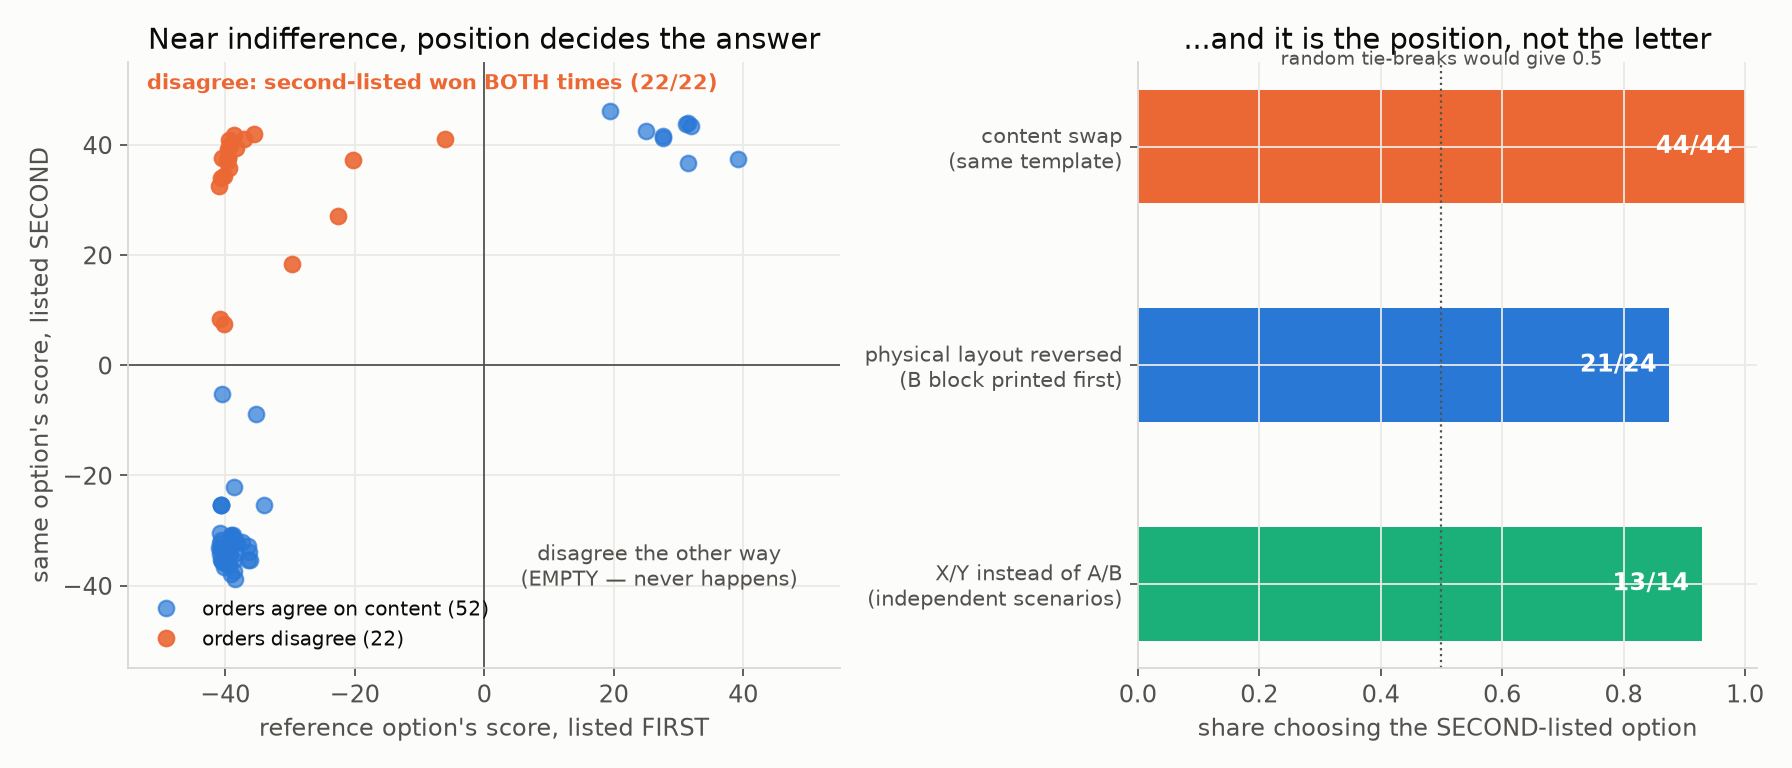
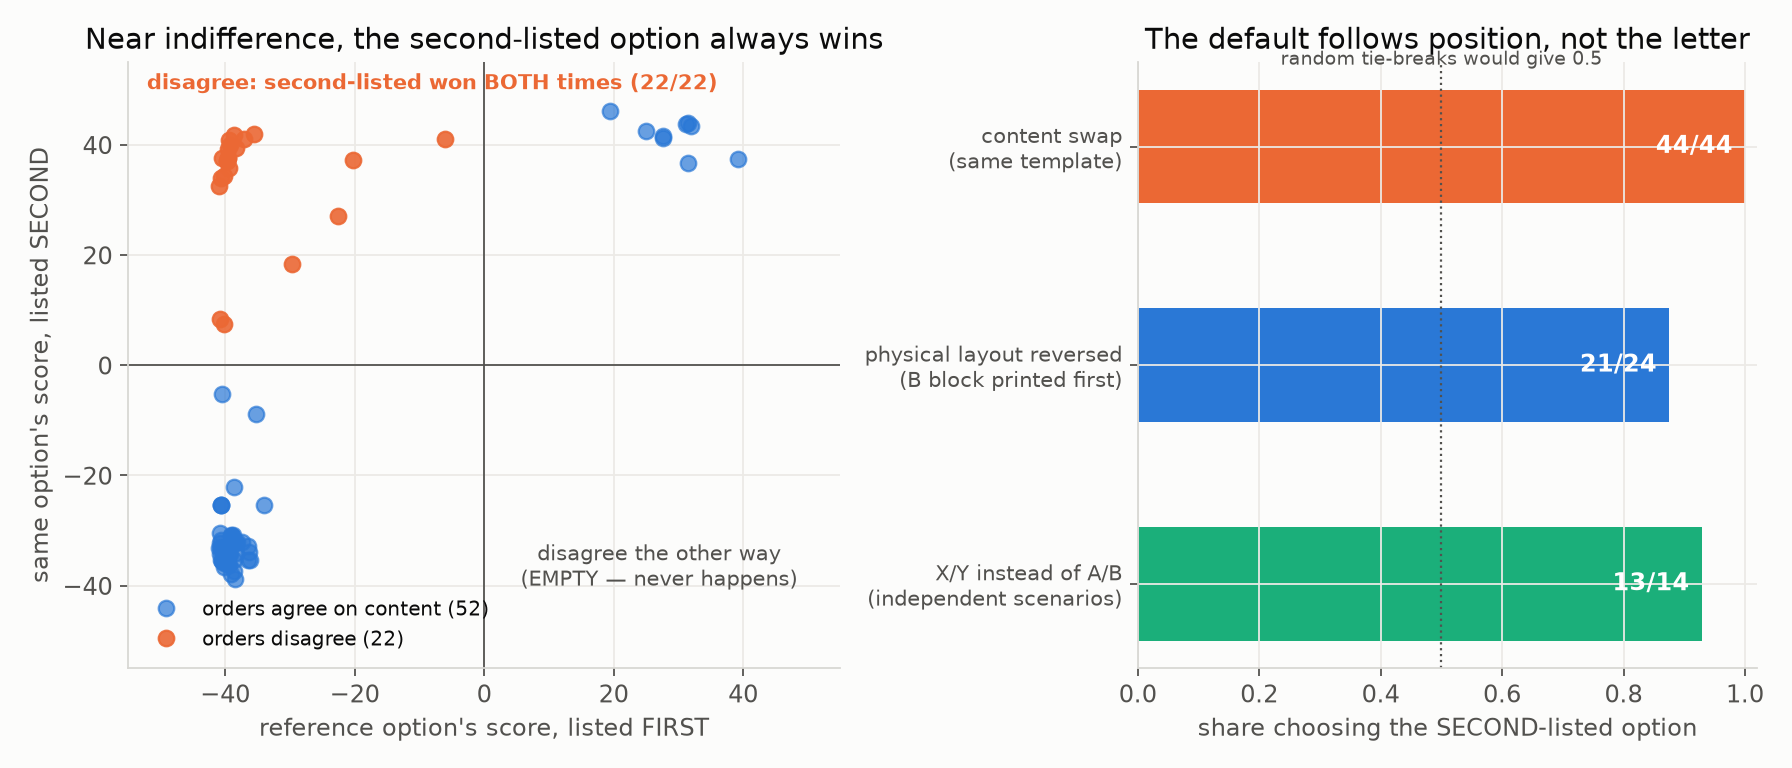
Hero figure: self-contained panel titles (observation left, mechanism right)

Changed region(s): [[0.0312, 0.0312, 0.5, 0.0625], [0.625, 0.0312, 0.9688, 0.0625]]

diff --git a/analysis/make_readme_figure.py b/analysis/make_readme_figure.py
@@ -86,7 +86,7 @@ ax.text(-8, 53, "disagree: second-listed won BOTH times (22/22)",
         fontsize=9.5, color=ORANGE, ha="center", va="top", fontweight="bold")
 ax.text(27, -40, "disagree the other way\n(EMPTY — never happens)",
         fontsize=9.5, color=INK2, ha="center")
-ax.set_title("Near indifference, position decides the answer", color=INK)
+ax.set_title("Near indifference, the second-listed option always wins", color=INK)
 ax.legend(frameon=False, fontsize=9, loc="lower left")
 
 # ---- right: the control chain ---------------------------------------------
@@ -106,7 +106,7 @@ bx.text(0.5, -0.44, "random tie-breaks would give 0.5", fontsize=8.5,
 bx.set_yticks(y, [t[0] for t in tests], fontsize=9.5)
 bx.set_xlim(0, 1.02)
 bx.set_xlabel("share choosing the SECOND-listed option")
-bx.set_title("...and it is the position, not the letter", color=INK)
+bx.set_title("The default follows position, not the letter", color=INK)
 bx.invert_yaxis()
 
 fig.tight_layout()
